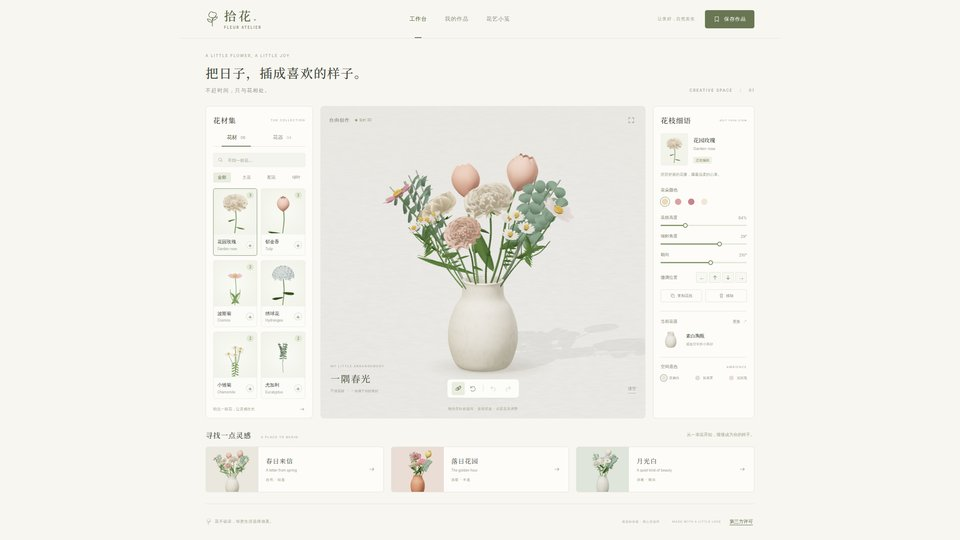
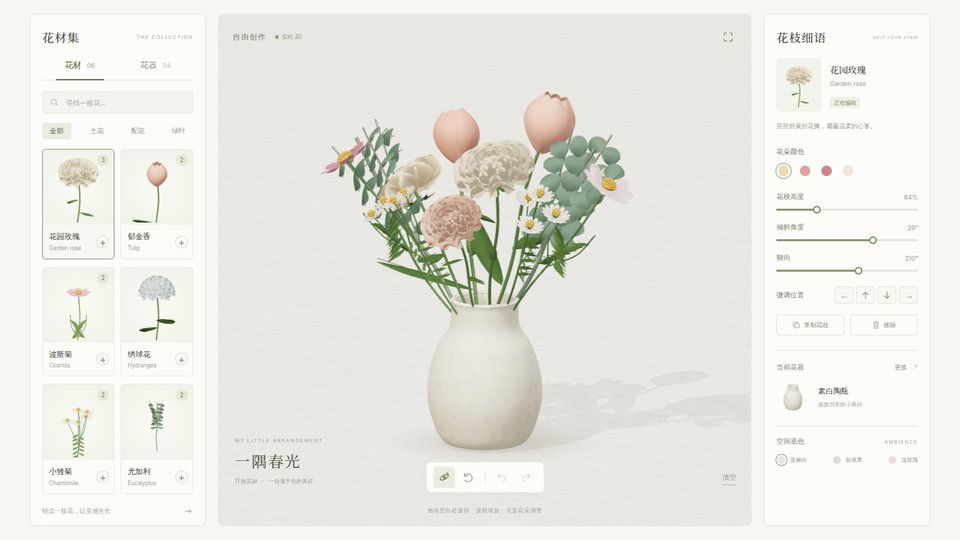
fix(profile): crop flower-arranging cover to workspace panels
The previous cover fitted the whole desktop screenshot into 960x540,
so the header, hero text, inspiration row and footer took up much of
the card and left the bouquet small.

Crop the screenshot to the three workspace panels (the flower catalog,
the 3D canvas and the stem editor) with a 16:9 box, then resize to a
960x540 JPEG. Drop "inspiration presets" from the alt text, since that
row is no longer shown, and record the crop in AGENTS.md.

diff --git a/AGENTS.md b/AGENTS.md
@@ -11,5 +11,5 @@
 - hand-walker-parkour (《手行者 · 跑酷》) is the game adaptation of the novel hand-walker: its card in "Games" links the novel, and the novel's card in "Explainers & writing" links back.
 - Preview screenshots: `npm i playwright-core github-markdown-css` in the scratchpad (write a `{"private":true}` `package.json` there first; otherwise npm resolves a stale ancestor `package.json` under `/tmp/claude-0` and fails with ENOENT) and launch with `executablePath` set to `~/.cache/ms-playwright/chromium_headless_shell-*/chrome-*/chrome-headless-shell`, run through `heavy-gate -n 1`. Keep `playwright` out of inline `python3 -c` checks; the heavy-gate hook blocks them.
 - Raster covers should be resized to 960×540 and saved as actual JPEG data (Pillow: RGB, LANCZOS, quality=85, optimize=True); a `.jpg` extension alone does not guarantee JPEG encoding. The hand-walker-parkour replacement was PNG data despite its `.jpg` name, causing unnecessary download size.
-- At the owner's request, flower-arranging (拾花 · Fleur Atelier) belongs in "Games", not a separate "Creative tools" section. Its cover uses `docs/screenshots/desktop.png` from its `main` branch, fitted without cropping into a 960×540 JPEG with matching background padding to preserve the full workspace.
+- At the owner's request, flower-arranging (拾花 · Fleur Atelier) belongs in "Games", not a separate "Creative tools" section. Its cover uses `docs/screenshots/desktop.png` from its `main` branch, cropped (box `(20, 231, 1405, 1010)`, 16:9) to just the three workspace panels (花材集, the 3D canvas, 花枝细语) and resized to 960×540: the owner found the full-page fit showed too much (header, hero text, inspiration row, footer).
 - `scripts/__pycache__/` is generated Python bytecode, not profile content; keep it ignored and out of Git history.

diff --git a/README.md b/README.md
@@ -87,7 +87,7 @@ I'm EveGoodEvening. I tune AI coding agents and build plugins for them, write sm
   <tbody>
     <tr>
       <td width="50%" valign="top">
-        <a href="https://evegoodevening.github.io/flower-arranging/"><img src="assets/covers/flower-arranging.jpg" width="100%" alt="Fleur Atelier desktop workspace with a flower catalog, a 3D bouquet in a white vase, stem adjustment controls, and inspiration presets."></a>
+        <a href="https://evegoodevening.github.io/flower-arranging/"><img src="assets/covers/flower-arranging.jpg" width="100%" alt="Fleur Atelier desktop workspace with a flower catalog, a 3D bouquet in a white vase, and stem adjustment controls."></a>
         <h3><a href="https://github.com/EveGoodEvening/flower-arranging">flower-arranging</a></h3>
         <b>拾花 · Fleur Atelier</b><br>
         A browser-based 3D flower-arranging studio with procedural flowers and vases: compose bouquets, adjust each stem, and save or export your work.<br><br>
